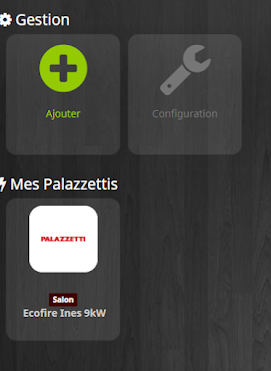
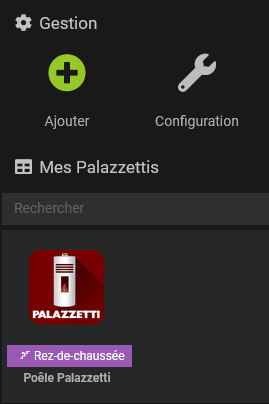
New Image Palazeti

diff --git a/Palazzetti/fr_FR/changelog.md b/Palazzetti/fr_FR/changelog.md
@@ -1,8 +1,8 @@
-## 1.0 (BETA!!!!)
+## 1.0 (14/07/2020 à 23h42)
 - Mise en place des modification de PM2036 pour la prise en compte du nouveaux firmware.
 - Application des modification de JEALG pour la prise en compre de PHP 7.3.
 - Mise a jours des lien de documentation
-- Mise a jours des visuel
+- Mise a jours des visuels
 - Refonte des widget By Domotech.
 
 ## 0.1 (01/06/2020 à 17h00)
